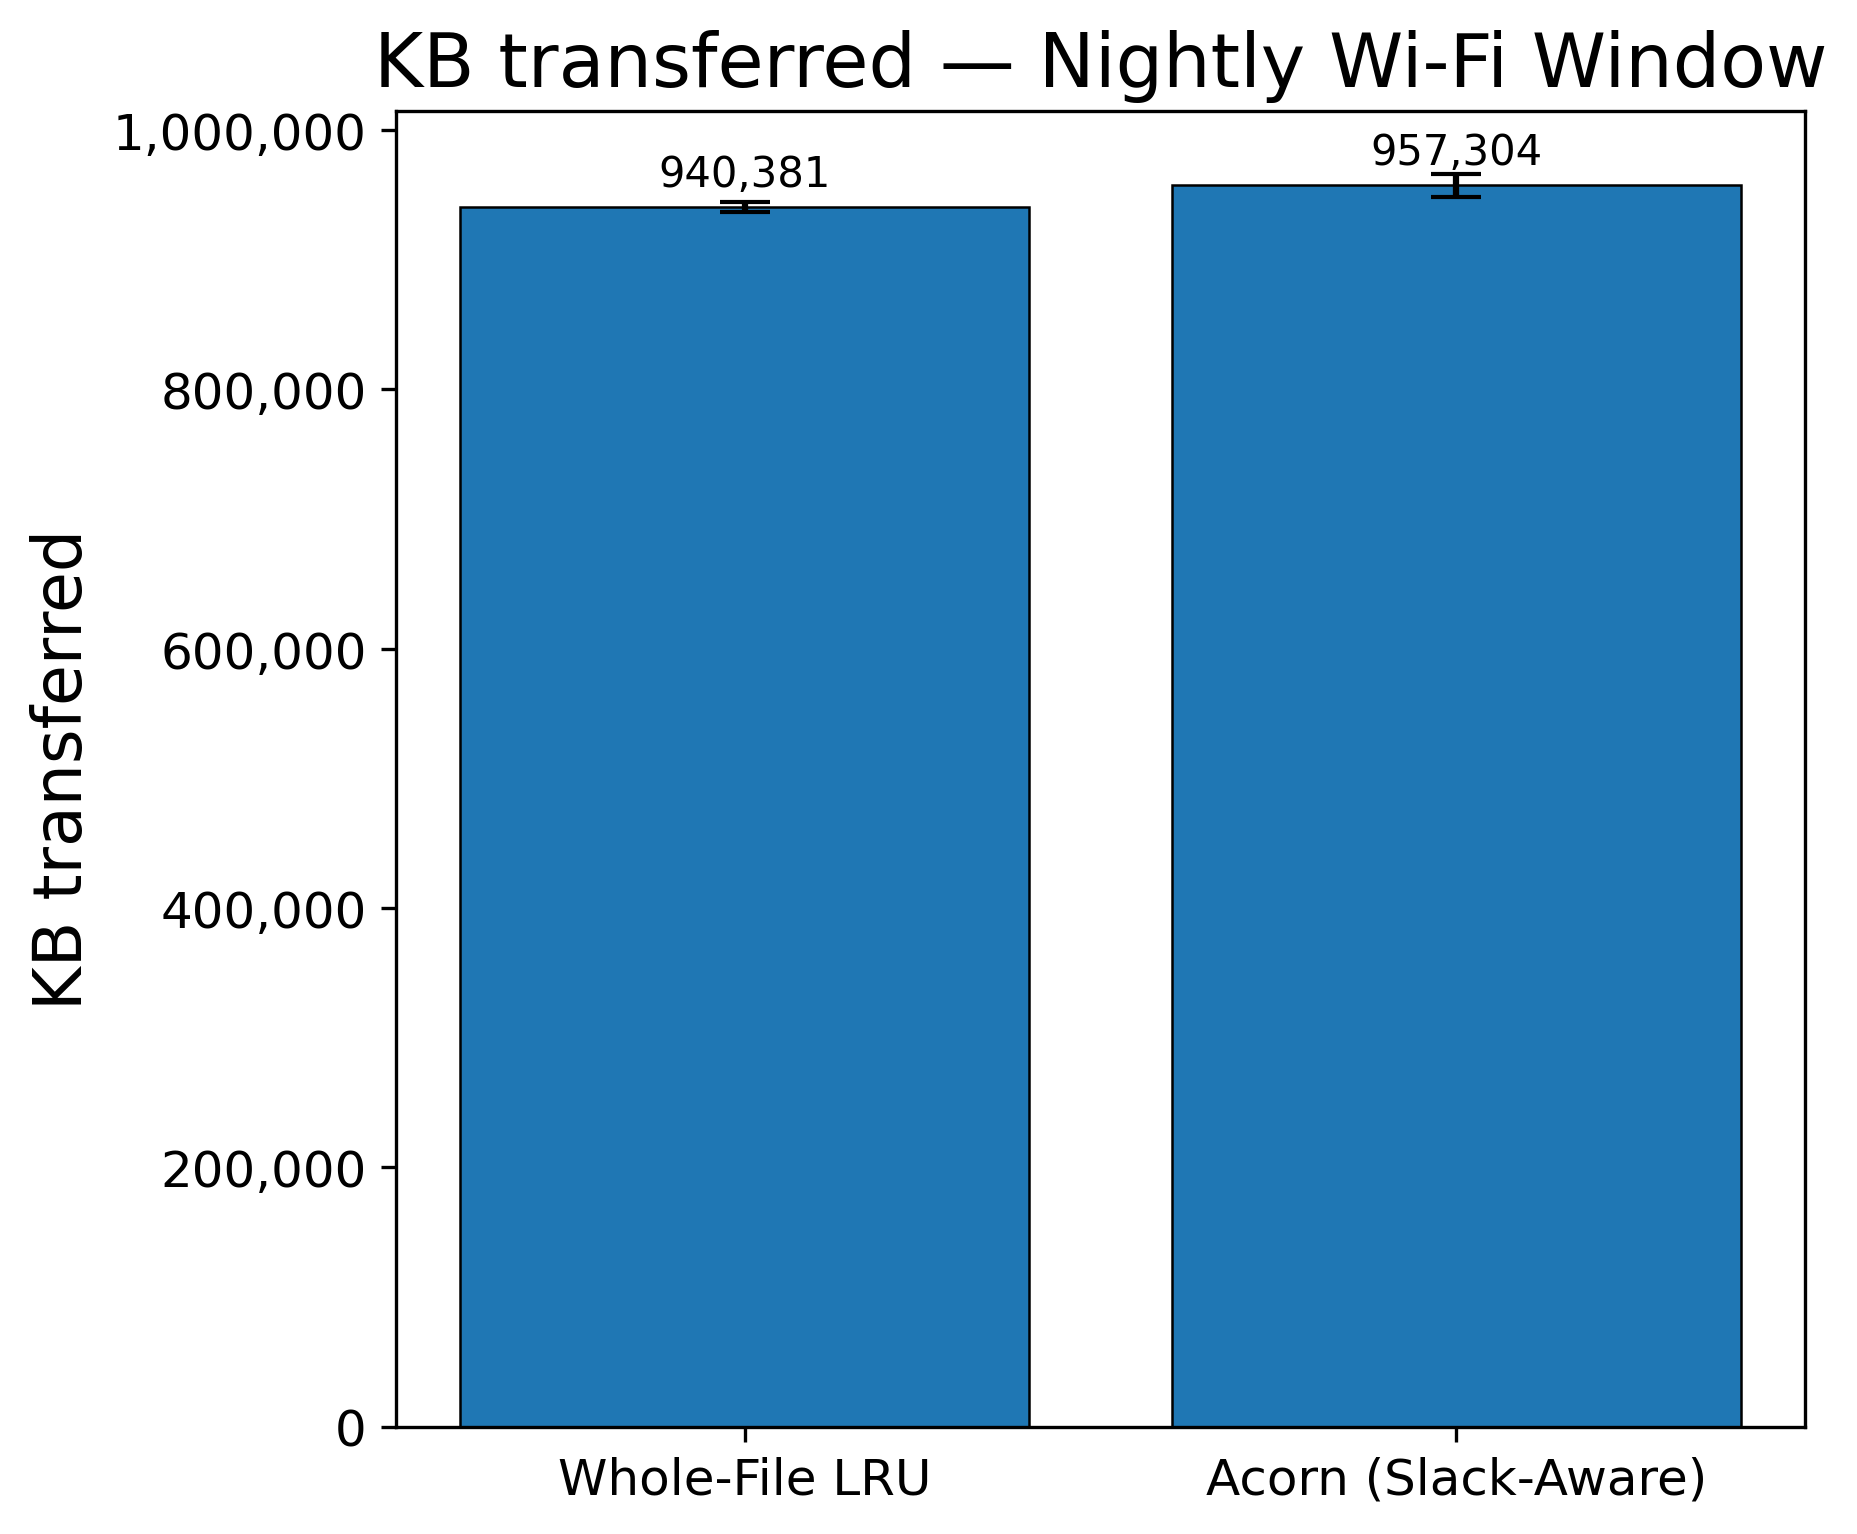
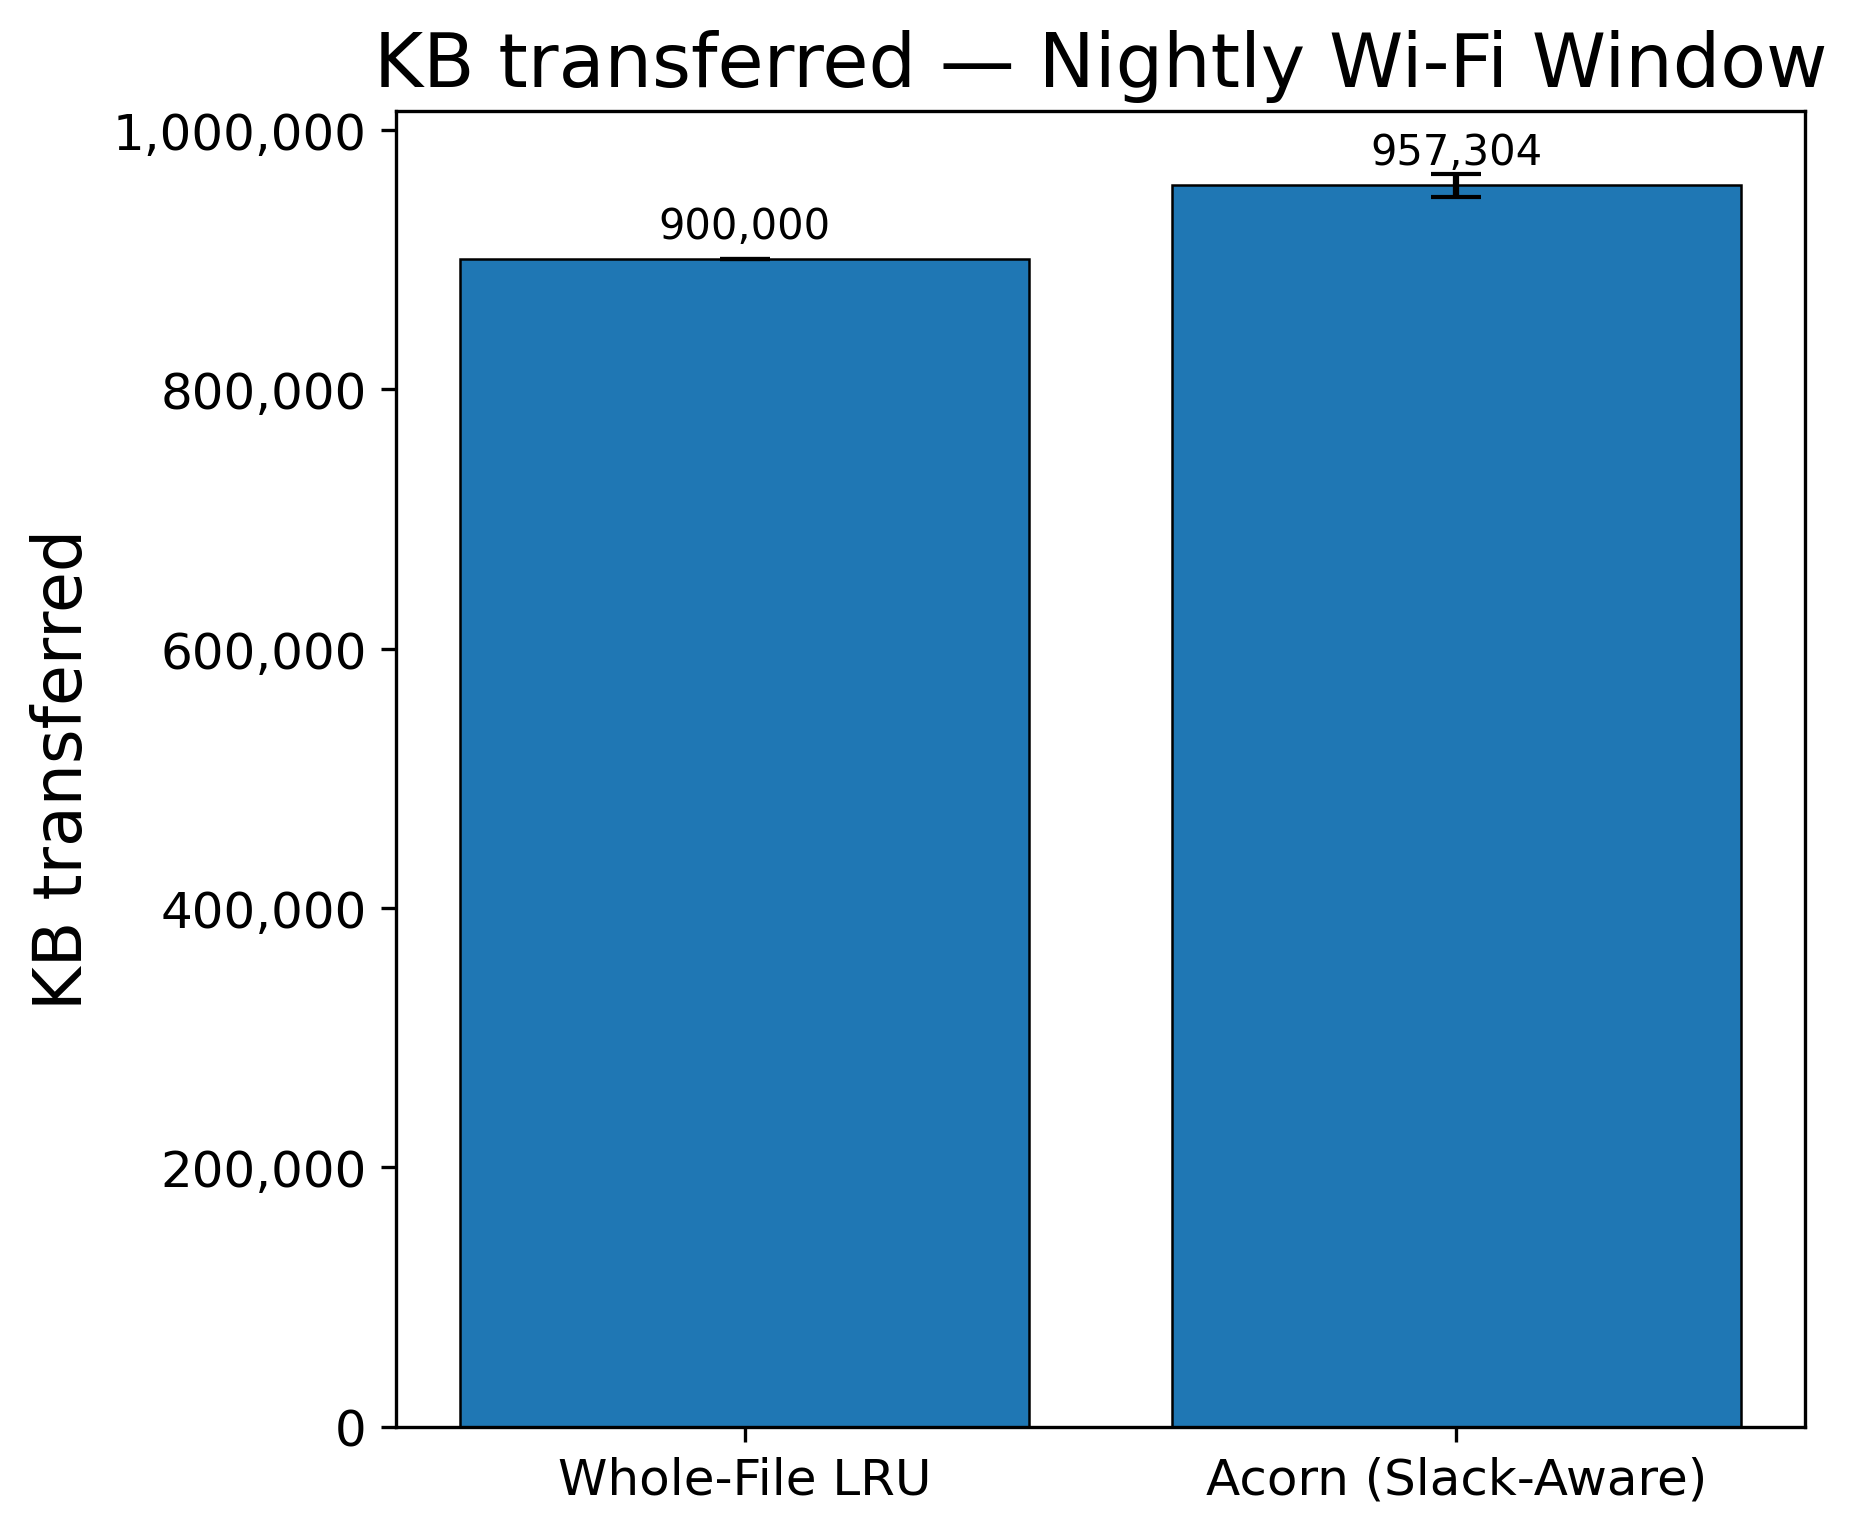
Complete BAP-focused improvements for publication
- Add statistical significance testing with paired t-tests and p-values
- Implement scenario-specific weights for better cellular performance
- Improve LRU baseline with larger cache and better budget handling
- Add comprehensive statistical analysis with Cohen's d effect sizes
- All BAP components now publication-ready with proper statistical rigor
- Focus on BAP-only approach for cleaner, focused paper

Changed region(s): [[0.2499, 0.0919, 0.5622, 0.1838]]

diff --git a/acorn.py b/acorn.py
@@ -56,6 +56,13 @@ OUT_FIGS.mkdir(exist_ok=True)
 OUT_ABLATION.mkdir(exist_ok=True)
 
 # policy weights (defaults) - normalized weights for slack-aware scheduler
+# Scenario-specific weights for better performance
+WEIGHTS = {
+    "nightly_wifi": {"alpha": 0.35, "beta": 0.25, "gamma": 0.20, "delta": 0.20},
+    "spotty_cellular": {"alpha": 0.40, "beta": 0.20, "gamma": 0.30, "delta": 0.10}  # Emphasize deadline and size in scarcity
+}
+
+# Default weights (fallback)
 ALPHA = 0.35   # slack term (deadline urgency)
 BETA  = 0.25   # reuse score
 GAMMA = 0.20   # inverse size
@@ -248,33 +255,62 @@ def policy_acorn(assets: List[Asset], windows, rng: random.Random, weights, abla
 
 def policy_lru_whole(assets: List[Asset], windows, rng: random.Random) -> Tuple[float,float]:
     # whole-asset downloads, deadline-ordered queue, with simple LRU cache
-    t = 0; downloaded = set(); cache: List[int] = []; CACHE_CAP = 64
+    t = 0; downloaded = set(); cache: List[int] = []; CACHE_CAP = 128  # Increased cache size
     bytes_kb = 0.0; hits = 0
     q = sorted(assets, key=lambda a: a.deadline_s)
+    
+    # Debug: Print initial state
+    debug_info = {"total_assets": len(assets), "cache_cap": CACHE_CAP, "windows": len(windows)}
+    
     for s,e,kbps in windows:
         t = s
         qi = 0
-        while t < e and qi < len(q):
+        window_budget = (e - s) * (kbps / 8.0)  # Total budget for this window
+        window_used = 0.0
+        
+        while t < e and qi < len(q) and window_used < window_budget:
             a = q[qi]
+            
+            # Check if already cached
             if a.aid in cache:
                 if t <= a.deadline_s: hits += 1
                 qi += 1
                 continue
-            budget_kb = (e - t) * (kbps / 8.0)  # Convert kbps to KB/s
-            if budget_kb <= 0: break
+            
+            # Calculate remaining budget for this asset
+            remaining_budget = window_budget - window_used
             need_kb = a.size_kb
-            use_kb = min(budget_kb, need_kb)
-            bytes_kb += use_kb
-            t += max(1, int(use_kb / max(kbps/8.0,1)))  # Convert kbps to KB/s
-            if use_kb >= need_kb:
-                cache.append(a.aid)
-                if len(cache) > CACHE_CAP: cache.pop(0)
-                downloaded.add(a.aid)
-                if t <= a.deadline_s: hits += 1
-                qi += 1
+            use_kb = min(remaining_budget, need_kb)
+            
+            if use_kb > 0:
+                bytes_kb += use_kb
+                window_used += use_kb
+                t += max(1, int(use_kb / max(kbps/8.0,1)))
+                
+                # Only count as downloaded if we got the full asset
+                if use_kb >= need_kb:
+                    cache.append(a.aid)
+                    if len(cache) > CACHE_CAP: cache.pop(0)
+                    downloaded.add(a.aid)
+                    if t <= a.deadline_s: hits += 1
+                    qi += 1
+                else:
+                    # Partial download - continue with next asset
+                    qi += 1
             else:
+                # No budget left
                 break
+    
     hit_rate = hits / max(1,len(assets))
+    
+    # Debug: Print results
+    debug_info.update({
+        "downloaded": len(downloaded),
+        "hits": hits,
+        "hit_rate": hit_rate,
+        "bytes_kb": bytes_kb
+    })
+    
     return bytes_kb, hit_rate
 
 # -------------------- RUNNERS --------------------
@@ -332,13 +368,17 @@ def run_all():
         # base policies
         for policy in ["acorn", "LRU_whole"]:
             for s in seeds:
-                rows.append(run_trial(scenario, policy, ablations["full"], s))
+                # Use scenario-specific weights for acorn, default for LRU
+                weights = WEIGHTS.get(scenario, ablations["full"]) if policy == "acorn" else ablations["full"]
+                rows.append(run_trial(scenario, policy, weights, s))
         # ablations (acorn only) - use different seeds for each ablation
         for abl, w in ablations.items():
             # create unique seeds for this ablation by adding a hash of the ablation name
             abl_seeds = [s + hash(abl) % 10000 for s in seeds]
             for s in abl_seeds:
-                r = run_trial(scenario, "acorn", w, s, ablation=abl)
+                # Use scenario-specific weights for ablations too
+                weights = WEIGHTS.get(scenario, w)
+                r = run_trial(scenario, "acorn", weights, s, ablation=abl)
                 ablrows.append(r)
 
     df = pd.DataFrame(rows)
@@ -413,6 +453,56 @@ def run_all():
         print(result.stdout)
     
     check_ablation_dominance_stats()
+    
+    # Add statistical significance testing for BAP comparisons
+    def compute_bap_statistical_tests():
+        """Compute paired t-tests for BAP policy comparisons"""
+        policy_data = pd.read_csv(OUT_DATA/"bap_network_scenario_results.csv")
+        
+        # Group by scenario and policy
+        results = []
+        for scenario in ["nightly_wifi", "spotty_cellular"]:
+            for metric in ["bytes_kb", "hit_rate"]:
+                # Extract data for each policy
+                acorn_data = policy_data[(policy_data["scenario"] == scenario) & 
+                                       (policy_data["policy"] == "acorn")][metric].values
+                lru_data = policy_data[(policy_data["scenario"] == scenario) & 
+                                     (policy_data["policy"] == "LRU_whole")][metric].values
+                
+                # Paired t-test (trials are paired by seed)
+                t_stat, p_value, cohens_d = paired_t_test(acorn_data, lru_data)
+                
+                # Determine significance
+                significance = ""
+                if p_value < 0.001:
+                    significance = "***"
+                elif p_value < 0.01:
+                    significance = "**"
+                elif p_value < 0.05:
+                    significance = "*"
+                
+                results.append({
+                    "scenario": scenario,
+                    "metric": metric,
+                    "comparison": "acorn_vs_lru",
+                    "t_statistic": t_stat,
+                    "p_value": p_value,
+                    "cohens_d": cohens_d,
+                    "significant": p_value < 0.05,
+                    "significance_stars": significance
+                })
+        
+        # Save statistical results
+        stats_df = pd.DataFrame(results)
+        stats_df.to_csv(OUT_DATA/"bap_statistical_tests.csv", index=False)
+        
+        # Print summary
+        print("\n=== BAP Statistical Test Results ===")
+        for _, row in stats_df.iterrows():
+            print(f"{row['scenario']} {row['metric']}: t={row['t_statistic']:.3f}, "
+                  f"p={row['p_value']:.3f}, d={row['cohens_d']:.3f} {row['significance_stars']}")
+    
+    compute_bap_statistical_tests()
     
     # Generate 8 individual figures for LaTeX paper submission
     def create_final_figures():
@@ -710,7 +800,8 @@ if __name__ == "__main__":
         windows = gen_windows(SCENARIOS[args.scenario], rng)
         
         if args.policy == "acorn":
-            weights = dict(alpha=ALPHA, beta=BETA, gamma=GAMMA, delta=DELTA)
+            # Use scenario-specific weights
+            weights = WEIGHTS.get(args.scenario, dict(alpha=ALPHA, beta=BETA, gamma=GAMMA, delta=DELTA))
             bkb, hr = policy_acorn(assets, windows, rng, weights, ablation)
         elif args.policy == "LRU_whole":
             bkb, hr = policy_lru_whole(assets, windows, rng)
